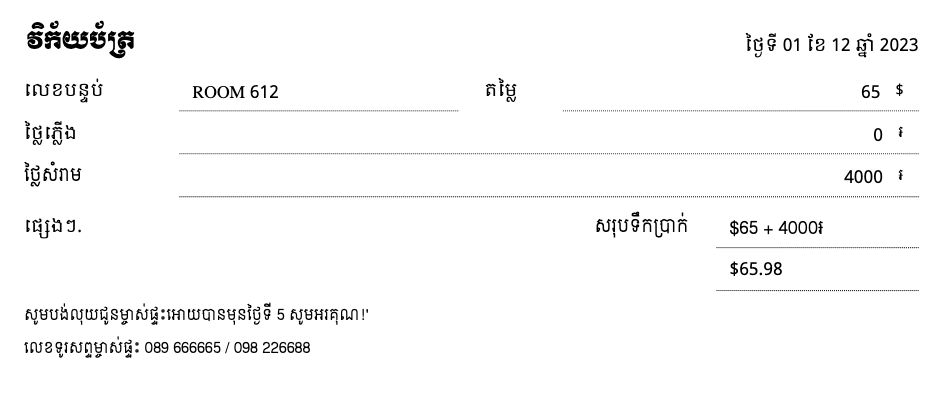
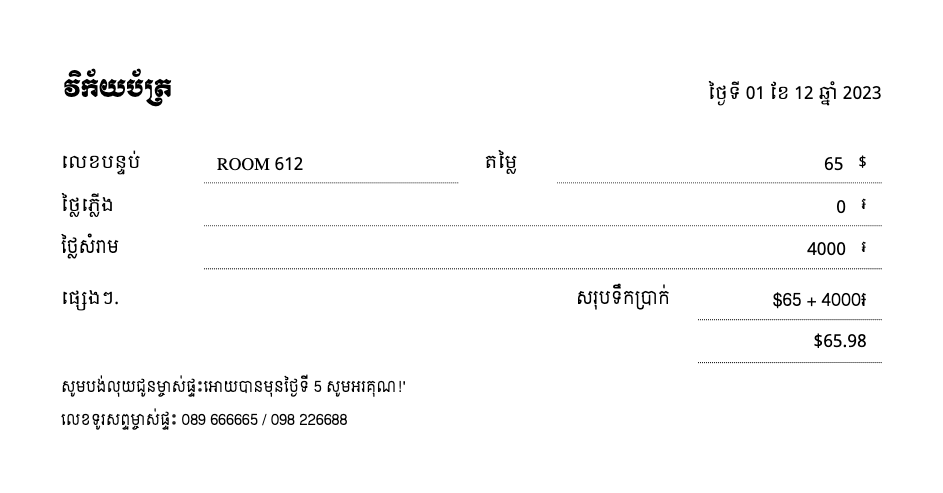
hotfix - set margin on page capture

diff --git a/resources/views/invoice/myview.blade.php b/resources/views/invoice/myview.blade.php
@@ -52,6 +52,18 @@
             width: 700px !important;
             height: 400px !important;
         }
+
+        .form-control:focus,
+        .form-select:focus,
+        .input-group-text:focus {
+            outline: 3px solid #ffffff !important;
+        }
+        .mt-10{
+            margin-top: 10% !important
+        } 
+        .mb-10{
+            margin-bottom: 10% !important
+        }
     </style>
 
 </head>
@@ -62,169 +74,177 @@
         <div class="">
             <div class="card-body">
                 <div class="row">
-                    <div class="col-sm-8 p-4 mb-4 mt-4 page-screenshot">
-                        <div class="row">
-                            <div class="col-sm-3">
-                                <h3 class="title-invoice">{{ __('app.invoice') }}</h3>
-                            </div>
-                            <div class="col-sm-9">
-                                <div class="row">
-                                    @php
-                                        $parts = explode('/', $invoicePaid->invoice_date);
-                                    @endphp
-                                    <div class="col-sm-12 text-end">
-                                        <label class="col-form-label">{{ __('app.label_day') }} {{ $parts[0] }}
-                                            {{ __('app.label_month') }} {{ $parts[1] }}
-                                            {{ __('app.label_year') }}
-                                            {{ $parts[2] }}</label>
-
-                                    </div>
+                    <div class="col-sm-8 page-screenshot">
+                        <div class=" p-5">
+                            <div class="row mb-4 mt-4">
+                                <div class="col-sm-3">
+                                    <h3 class="title-invoice">{{ __('app.invoice') }}</h3>
                                 </div>
-                            </div>
-                        </div>
-                        <div class="row">
-                            <div class="col-sm-6">
-                                <div class="row">
-                                    <label class="col-sm-4 form-label" style="margin-top: 8px; !impoertant"
-                                        for="basic-icon-default">{{ __('app.room_number') }}
-                                    </label>
-                                    <div class="col-sm-8">
-                                        <input type="text" value="{{ $room->room_number }}"
-                                            class="form-control cost text-black" name="room_id" placeholder="00">
-                                    </div>
-                                </div>
-                            </div>
-                            <div class="col-sm-6">
-                                <div class="row">
-                                    <label class="col-sm-2 col-form-label"
-                                        for="basic-default-name">{{ __('app.cost') }}</label>
-                                    <div class="col-sm-10">
-                                        <div class="input-group input-group-merge">
-                                            <input type="number" pattern="[0-9]*"
-                                                value="{{ floatval($invoicePaid->room_cost) }}"
-                                                class="form-control cost text-end  text-black" name="cost"
-                                                placeholder="00">
-                                            <span class="input-group-text text-black">$</span>
-                                        </div>
-                                    </div>
-                                </div>
-                            </div>
-                        </div>
-
-                        <div class="row">
-                            <label class="col-sm-2 col-form-label">{{ __('app.eletrotic_cost') }}</label>
-                            <div class="col-sm-10">
-                                <div class="input-group input-group-merge">
-                                    <input type="number" class="form-control eletrotic_cost text-end text-black"
-                                        step="any" value="{{ floatval($invoicePaid->electric_cost) }}"
-                                        name="electric_cost" placeholder="00" required>
-                                    <span class="input-group-text text-black">៛</span>
-                                </div>
-                            </div>
-                        </div>
-                        @if ($invoicePaid->water_cost != '0.00')
-                            <div class="row div-water_paid">
-                                <div class="col-sm-12">
+                                <div class="col-sm-9">
                                     <div class="row">
-                                        <div class="col-sm-2">
-                                            <label class="col-sm-6 col-form-label">{{ __('app.water_cost') }}</label>
+                                        @php
+                                            $parts = explode('/', $invoicePaid->invoice_date);
+                                        @endphp
+                                        <div class="col-sm-12 text-end">
+                                            <label class="col-form-label">{{ __('app.label_day') }}
+                                                {{ $parts[0] }}
+                                                {{ __('app.label_month') }} {{ $parts[1] }}
+                                                {{ __('app.label_year') }}
+                                                {{ $parts[2] }}</label>
+
                                         </div>
-                                        <div class="col-sm-4">
-                                            <div class="row">
-                                                <label
-                                                    class="col-sm-5 col-form-label text-start">{{ __('app.label_old_number') }}</label>
-                                                <div class="col-sm-7">
-                                                    <input type="text" name="water_old"
-                                                        class="form-control water_new text-black text-left"
-                                                        placeholder="0" value="{{ $invoicePaid->water_old }}">
-                                                </div>
+                                    </div>
+                                </div>
+                            </div>
+                            <div class="row">
+                                <div class="col-sm-6">
+                                    <div class="row">
+                                        <label class="col-sm-4 form-label" style="margin-top: 8px; !impoertant"
+                                            for="basic-icon-default">{{ __('app.room_number') }}
+                                        </label>
+                                        <div class="col-sm-8">
+                                            <input type="text" readonly value="{{ $room->room_number }}"
+                                                class="form-control cost text-black" name="room_id" placeholder="00">
+                                        </div>
+                                    </div>
+                                </div>
+                                <div class="col-sm-6">
+                                    <div class="row">
+                                        <label class="col-sm-2 col-form-label"
+                                            for="basic-default-name">{{ __('app.cost') }}</label>
+                                        <div class="col-sm-10">
+                                            <div class="input-group input-group-merge">
+                                                <input type="number" pattern="[0-9]*"
+                                                    value="{{ floatval($invoicePaid->room_cost) }}"
+                                                    class="form-control cost text-end  text-black" name="cost"
+                                                    placeholder="00">
+                                                <span class="input-group-text text-black">$</span>
                                             </div>
                                         </div>
-                                        <div class="col-sm-3">
-                                            <div class="row">
+                                    </div>
+                                </div>
+                            </div>
+
+                            <div class="row">
+                                <label class="col-sm-2 col-form-label">{{ __('app.eletrotic_cost') }}</label>
+                                <div class="col-sm-10">
+                                    <div class="input-group input-group-merge">
+                                        <input type="number" class="form-control eletrotic_cost text-end text-black"
+                                            step="any" value="{{ floatval($invoicePaid->electric_cost) }}"
+                                            name="electric_cost" placeholder="00" required>
+                                        <span class="input-group-text text-black">៛</span>
+                                    </div>
+                                </div>
+                            </div>
+                            @if ($invoicePaid->water_cost != '0.00')
+                                <div class="row div-water_paid">
+                                    <div class="col-sm-12">
+                                        <div class="row">
+                                            <div class="col-sm-2">
                                                 <label
-                                                    class="col-sm-5 col-form-label text-end">{{ __('app.label_new_number') }}</label>
-                                                <div class="col-sm-7">
-                                                    <input type="text" name="water_new"
-                                                        class="form-control water_new text-black" placeholder="0"
-                                                        value="{{ $invoicePaid->water_new }}">
+                                                    class="col-sm-6 col-form-label">{{ __('app.water_cost') }}</label>
+                                            </div>
+                                            <div class="col-sm-4">
+                                                <div class="row">
+                                                    <label
+                                                        class="col-sm-5 col-form-label text-start">{{ __('app.label_old_number') }}</label>
+                                                    <div class="col-sm-7">
+                                                        <input type="text" name="water_old"
+                                                            class="form-control water_new text-black text-left"
+                                                            placeholder="0" value="{{ $invoicePaid->water_old }}">
+                                                    </div>
                                                 </div>
                                             </div>
-                                        </div>
-                                        <div class="col-sm-3">
-                                            <div class="row align-items-end">
-                                                <div class="col-sm-12">
-                                                    <div class="input-group input-group-merge">
-                                                        <input type="text" name="water_cost"
-                                                            value="{{ floatval($invoicePaid->water_cost) }}"
-                                                            class="form-control water_cost text-end  text-black"
-                                                            placeholder="0" value="0">
-                                                        <span
-                                                            class="input-group-text text-black"><strong>៛</strong></span>
+                                            <div class="col-sm-3">
+                                                <div class="row">
+                                                    <label
+                                                        class="col-sm-5 col-form-label text-end">{{ __('app.label_new_number') }}</label>
+                                                    <div class="col-sm-7">
+                                                        <input type="text" name="water_new"
+                                                            class="form-control water_new text-black" placeholder="0"
+                                                            value="{{ $invoicePaid->water_new }}">
+                                                    </div>
+                                                </div>
+                                            </div>
+                                            <div class="col-sm-3">
+                                                <div class="row align-items-end">
+                                                    <div class="col-sm-12">
+                                                        <div class="input-group input-group-merge">
+                                                            <input type="text" name="water_cost"
+                                                                value="{{ floatval($invoicePaid->water_cost) }}"
+                                                                class="form-control water_cost text-end  text-black"
+                                                                placeholder="0" value="0">
+                                                            <span
+                                                                class="input-group-text text-black"><strong>៛</strong></span>
+                                                        </div>
                                                     </div>
                                                 </div>
                                             </div>
                                         </div>
                                     </div>
-                                </div>
 
-                            </div>
-                        @endif
-                        <div class="row mb-2">
-                            <label class="col-sm-2 col-form-label"
-                                style="font-family: Siemreap;">{{ __('app.label_eletrotic_cost_with_trash') }}</label>
-                            <div class="col-sm-10">
-                                <div class="input-group input-group-merge">
-                                    <input type="text" name="water_cost"
-                                        value="{{ floatval($invoicePaid->electric_trash_cost) }}"
-                                        class="form-control water_cost text-black text-end" placeholder="0"
-                                        value="0">
-                                    <span class="input-group-text text-black">៛</span>
+                                </div>
+                            @endif
+                            <div class="row mb-2">
+                                <label class="col-sm-2 col-form-label"
+                                    style="font-family: Siemreap;">{{ __('app.label_eletrotic_cost_with_trash') }}</label>
+                                <div class="col-sm-10">
+                                    <div class="input-group input-group-merge">
+                                        <input type="text" name="water_cost"
+                                            value="{{ floatval($invoicePaid->electric_trash_cost) }}"
+                                            class="form-control water_cost text-black text-end" placeholder="0"
+                                            value="0">
+                                        <span class="input-group-text text-black">៛</span>
+                                    </div>
                                 </div>
                             </div>
-                        </div>
 
-                        <div class="row justify-content-end">
-                            <div class="col-sm-6">
-                                <label class="col-form-label">{!! $invoicePaid->other !!}</label>
-                            </div>
-                            <div class="col-sm-6">
-                                <div class="row">
-                                    <label class="col-sm-6 col-form-label text-end"
-                                        style="font-family: Siemreap;">{{ __('app.label_total_amount') }}</label>
-                                    <div class="col-sm-6">
-                                        <div class="input-group input-group-merge">
-                                            <input type="text" name="total_amount"
-                                                class="form-control total_amount text-black" readonly required
-                                                placeholder="0" style="font-family: Siemreap;"
-                                                value="{{ $invoicePaid->total_amount }}">
-                                            <span class="input-group-text">
-                                            </span>
+                            <div class="row justify-content-end">
+                                <div class="col-sm-6">
+                                    <label class="col-form-label">{!! $invoicePaid->other !!}</label>
+                                </div>
+                                <div class="col-sm-6">
+                                    <div class="row">
+                                        <label class="col-sm-6 col-form-label text-end"
+                                            style="font-family: Siemreap;">{{ __('app.label_total_amount') }}</label>
+                                        <div class="col-sm-6">
+                                            <div class="input-group input-group-merge">
+                                                <input type="text" name="total_amount"
+                                                    class="form-control total_amount text-black text-end float-end"
+                                                    readonly required placeholder="0" style="font-family: Siemreap;"
+                                                    value="{{ $invoicePaid->total_amount }}">
+                                            </div>
                                         </div>
-                                    </div>
-                                </div>
-                                <div class="row">
-                                    <label class="col-sm-6 col-form-label text-end"></label>
-                                    <div class="col-sm-6">
-                                        <label
-                                            class="col-form-label form-control">{{ $invoicePaid->total_amount_dollar }}</label>
-                                    </div>
 
+                                    </div>
+                                    <div class="row">
+                                        <label class="col-sm-6 col-form-label text-end"></label>
+                                        <div class="col-sm-6">
+                                            <label
+                                                class="col-form-label form-control text-end float-end">{{ $invoicePaid->total_amount_dollar }}</label>
+                                        </div>
+
+                                    </div>
                                 </div>
                             </div>
-                        </div>
 
-                        <div class="row mt-3">
-                            <div class="col-sm-12">
-                                <h6 style="font-family: Siemreap;">សូមបង់លុយជូនម្ចាស់ផ្ទះអោយបានមុនថ្ងៃទី 5 សូមអរគុណ!'
-                                </h6>
-                                <h6 style="font-family: Siemreap;">លេខទូរសព្ទម្ចាស់ផ្ទះ 089 666665 / 098 226688</h6>
+                            <div class="row mt-3">
+                                <div class="col-sm-12">
+                                    <h6 style="font-family: Siemreap;">សូមបង់លុយជូនម្ចាស់ផ្ទះអោយបានមុនថ្ងៃទី 5
+                                        សូមអរគុណ!'
+                                    </h6>
+                                    <h6 style="font-family: Siemreap;">លេខទូរសព្ទម្ចាស់ផ្ទះ 089 666665 / 098 226688
+                                    </h6>
+                                </div>
                             </div>
                         </div>
                     </div>
                     <div class="col-sm-4">
                         <button class="btn btn-outline-primary" id="saveReport"> <i class="bx bx-images me-2"></i>
                             {{ __('app.label_screenshot') }}</button>
+                        <button class="btn btn-outline-info" id="progressReport"> <i
+                                class='bx bx-loader-circle me-2'></i>
+                            {{ __('app.label_loading_') }}</button>
                     </div>
                 </div>
 
@@ -239,6 +259,8 @@
 
     <script type="text/javascript">
         $(document).ready(function() {
+            $('#progressReport').hide()
+
             $.ajaxSetup({
                 headers: {
                     'X-CSRF-TOKEN': $('meta[name="csrf-token"]').attr('content')
@@ -249,6 +271,8 @@
 
             var id = window.location.pathname.split('/');
             $('#saveReport').on('click', function() {
+                $('#progressReport').show();
+                $('#saveReport').hide();
                 html2canvas(document.querySelector(".page-screenshot")).then(canvas => {
                     var imgData = canvas.toDataURL("image/png");
                     $.ajax({

diff --git a/lang/km/app.php b/lang/km/app.php
@@ -135,6 +135,7 @@ return [
     'label_month' => 'ខែ',
     'label_year' => 'ឆ្នាំ',
     'label_loading' => 'កំពុងផ្ញើ...',
+    'label_loading_' => 'កំពុងដំណើរការ...',
     'message_send' => 'បានផ្ញើដោយជោគជ័យ!',
     'label_my_profile' => 'ប្រូហ្វាល់ខ្ញុំ',
     'label_logout' => 'ចាកចេញ',
